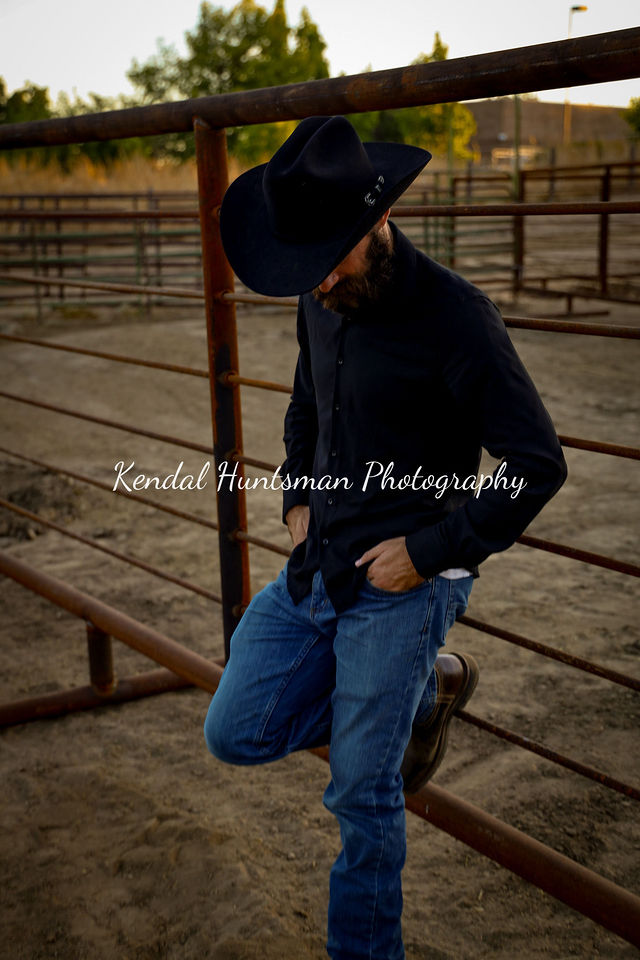
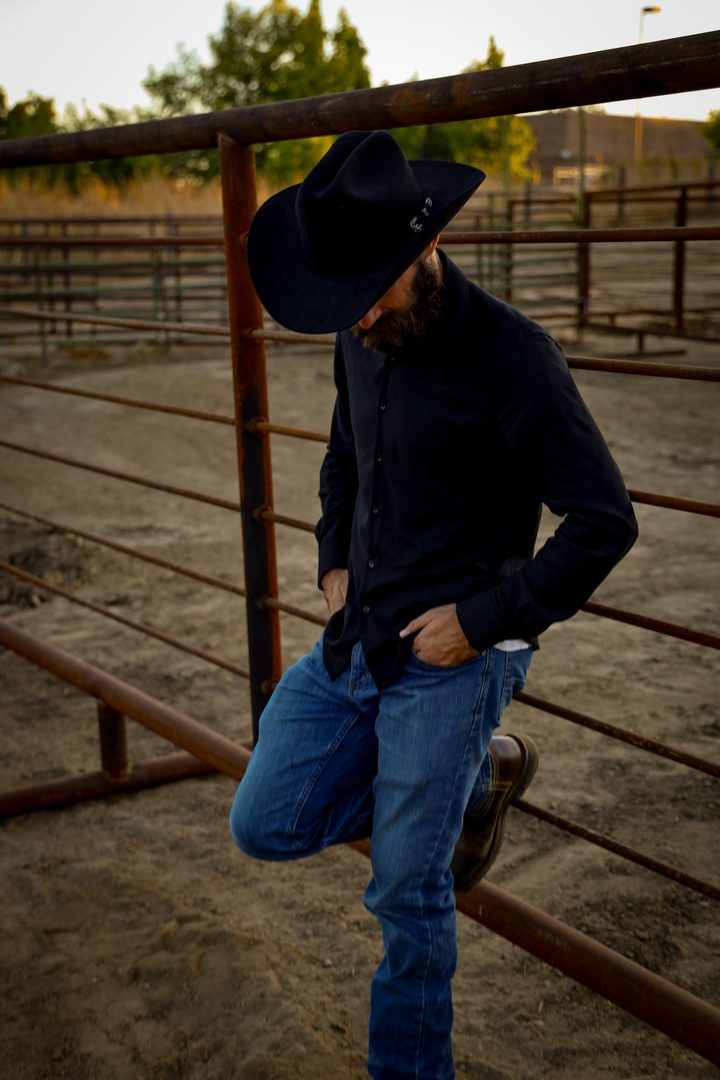
Use the full-band photo as a full-height hero
Replaces the inset solo photo with the band shot at the corral as the hero
background, washed only across the bottom so the band stays visible. Swaps
in the purchased, unwatermarked portraits at web size, adds a 1200x630
link-preview image, and drops the photographer credit. Full-resolution
originals now live in an ignored assets/originals folder.

Changed region(s): [[0.1875, 0.4688, 0.5312, 0.5312], [0.5625, 0.4688, 0.8125, 0.5312]]

diff --git a/index.html b/index.html
@@ -9,7 +9,9 @@
   <!-- Link preview (Facebook, iMessage, text messages) -->
   <meta property="og:title" content="Sean Avila | Country Music">
   <meta property="og:description" content="Listen, find a show, and follow along.">
-  <meta property="og:image" content="https://seanavila.com/assets/images/landscape.png">
+  <meta property="og:image" content="https://seanavila.com/assets/images/og-image.jpg">
+  <meta property="og:image:width" content="1200">
+  <meta property="og:image:height" content="630">
   <meta property="og:type" content="website">
   <meta property="og:url" content="https://seanavila.com/">
 
@@ -39,7 +41,7 @@
 <main id="main">
 
   <!-- ============ HOME / HERO ============ -->
-  <section id="top" class="hero">
+  <section id="top" class="hero" aria-label="Welcome">
     <div class="wrap hero-inner">
       <div class="hero-text">
         <h1>Sean Avila</h1>
@@ -49,9 +51,6 @@
           <a class="button button-outline" href="#shows">See Show Dates</a>
         </div>
       </div>
-      <figure class="hero-photo">
-        <img src="assets/images/landscape.png" alt="Sean Avila in a black cowboy hat, playing a white Telecaster guitar beside a rust-red pipe fence at sunset." width="640" height="426">
-      </figure>
     </div>
   </section>
 
@@ -133,7 +132,7 @@
 
       <div class="insta-grid">
         <figure class="insta-photo">
-          <img src="assets/images/portrait-1.jpg" alt="Sean Avila leaning on a pipe fence, hat tipped down, in a black shirt and jeans." width="640" height="960" loading="lazy">
+          <img src="assets/images/portrait-1.jpg" alt="Sean Avila leaning on a pipe fence, hat tipped down, in a black shirt and jeans." width="720" height="1080" loading="lazy">
         </figure>
         <div class="insta-card">
           <p class="insta-handle">@seansacoustics</p>
@@ -141,7 +140,7 @@
           <a class="button button-primary" href="https://www.instagram.com/seansacoustics/" target="_blank" rel="noopener">Follow on Instagram</a>
         </div>
         <figure class="insta-photo">
-          <img src="assets/images/portrait-2.jpg" alt="Sean Avila playing an acoustic bass on stage under a metal roof, drummer behind him." width="640" height="960" loading="lazy">
+          <img src="assets/images/portrait-2.jpg" alt="Sean Avila playing an acoustic bass on stage under a metal roof, drummer behind him." width="720" height="1080" loading="lazy">
         </figure>
       </div>
     </div>
@@ -153,7 +152,7 @@
   <div class="wrap footer-inner">
     <p class="footer-brand">Sean Avila</p>
     <p>For booking, send a message on <a href="https://www.instagram.com/seansacoustics/" target="_blank" rel="noopener">Instagram</a>.</p>
-    <p class="footer-fine">Photos by Kendal Huntsman Photography. &copy; 2026 Sean Avila.</p>
+    <p class="footer-fine">&copy; 2026 Sean Avila.</p>
   </div>
 </footer>
 

diff --git a/css/style.css b/css/style.css
@@ -159,42 +159,35 @@ h3 { font-size: var(--text-lg); font-family: var(--font-body); font-weight: 700;
 
 /* ---------- Hero ---------- */
 .hero {
+  /* The full band at the corral carries the hero. The wash stays light over
+     the band and only turns solid across the bottom third, where the text
+     sits over bare dirt, so Sean and the band stay visible. */
   background:
-    radial-gradient(70% 60% at 85% 20%, rgba(168, 73, 42, 0.22), transparent 70%),
-    var(--ink);
+    linear-gradient(to top, var(--ink) 0%, rgba(21, 17, 14, 0.88) 22%, rgba(21, 17, 14, 0.45) 48%, rgba(21, 17, 14, 0.18) 100%),
+    url("../assets/images/background.jpg") center 25% / cover no-repeat var(--ink);
   border-bottom: 1px solid var(--ink-line);
-}
-.hero-inner {
   display: grid;
-  grid-template-columns: 1fr;
-  gap: 2.5rem;
-  align-items: center;
-  padding-block: 3rem 3.5rem;
+  align-items: end;
+  min-height: calc(100vh - var(--header-h));
+  min-height: calc(100svh - var(--header-h));
 }
-.hero-text { display: grid; gap: 1.25rem; min-width: 0; }
-.hero-text h1 { margin-top: -0.25rem; }
-.hero-photo {
-  position: relative;
-  order: -1; /* phones and tablets: photo first, then the name and buttons */
-  width: 100%;
-  max-width: 40rem;
-  justify-self: center;
-  border-radius: var(--radius);
-  overflow: hidden;
-  box-shadow: 0 24px 60px rgba(0, 0, 0, 0.55);
+.hero-inner { padding-block: 4rem 3.5rem; }
+.hero-text { display: grid; gap: 1.1rem; max-width: 46rem; min-width: 0; }
+.hero-text h1 {
+  font-size: clamp(3rem, 6.5vw, 5.75rem);
+  text-shadow: 0 2px 24px rgba(21, 17, 14, 0.8);
 }
-.hero-photo::after {
-  /* A rust pipe-rail along the top edge, like the fence in the photo. */
-  content: ""; position: absolute; left: 0; right: 0; top: 0;
-  height: 6px; background: var(--rust);
-}
-@media (min-width: 56em) {
-  .hero-inner {
-    grid-template-columns: minmax(0, 1.05fr) minmax(0, 1fr);
-    gap: 3.5rem;
-    padding-block: 4.5rem 5rem;
+.hero-text .lede { text-shadow: 0 1px 12px rgba(21, 17, 14, 0.9); }
+@media (max-width: 40em) {
+  /* Phones: the header is not sticky, so the hero fills the first screen
+     below the two-line header (6.75rem). */
+  .hero {
+    min-height: calc(100vh - 6.75rem);
+    min-height: calc(100svh - 6.75rem);
+    background-position: center 15%;
   }
-  .hero-photo { order: 0; justify-self: end; }
+  .hero-inner { padding-block: 3rem 2.5rem; }
+  .hero-text .lede { font-size: var(--text-base); }
 }
 
 /* ---------- Sections ---------- */

diff --git a/README.md b/README.md
@@ -51,6 +51,7 @@ Then visit http://localhost:8000.
 
 ## Photos
 
-Current photos are 640px wide and carry the photographer's watermark. Ask Kendal
-Huntsman Photography for full-resolution, unwatermarked files when possible; drop
-them into `assets/images/` with the same filenames and nothing else needs to change.
+`assets/images/` holds only web-sized copies: the hero background at 1920px wide,
+the two portraits at 720px wide, and a 1200 by 630 link-preview image. Full-resolution
+originals live in `assets/originals/`, which git ignores, so they stay local and never
+get served.
